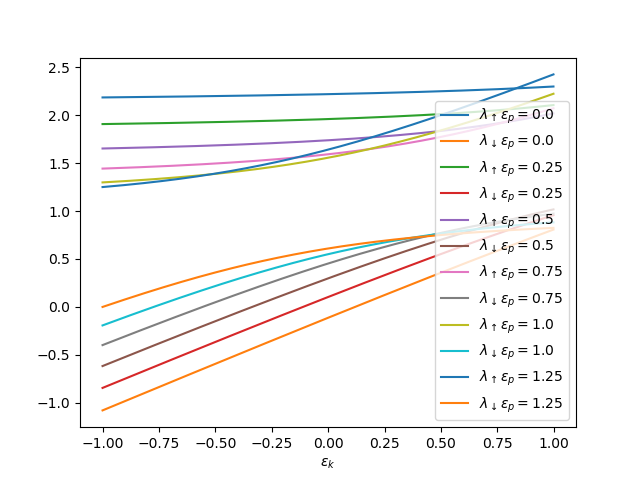
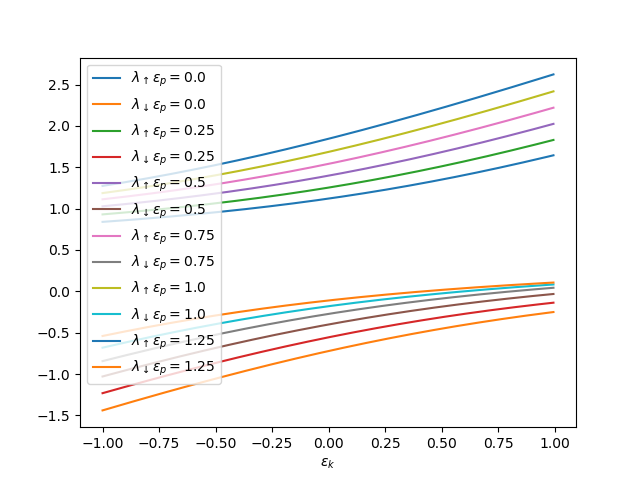
phase diagram

diff --git a/hf/hf_pam.py b/hf/hf_pam.py
@@ -1,29 +1,32 @@
 import numpy as np
 import matplotlib.pyplot as plt
 
-e_p = 0         # energy of p-orbital electron
-n_loops = 100   # number of loops   
-n_d = 0.5       # d-orbital electron number
+e_p = 0.0       # energy of p-orbital electron
+n_p = 0.0       # p-orbital electron number
+U = 0.5         # interaction term
+mu = 0.0        # chemical potential
 mix = 0.5       # ratio of old and new n_d 
 band_up = []    # up-spin energy band
 band_dn = []    # down-spin energy band
 energy = []     # range of e_k values
 
-def solve_model(e_p, n_d):
-    D = 1       # half-bandwidth
-    e_d = 0     # energy of d-orbital electron
-    t_pd = 0.5  # orbital hopping
-    U = 2.0     # interaction term
-    de = 1e-3   # energy differential
-    mu = 0      # chemical potential
-    n_p_up = 0  # p-orbital up-spin electron number
-    n_d_up = 0  # d-orbital up-spin electron number
-    n_p_dn = 0.5# p-orbital down-spin electron number
-    n_d_dn = 0.5# d-orbital down-spin electron number    
+def solve_model(e_p, n_d, mu, U):
+    D = 1.0     # half-bandwidth
+    e_d = 0.0   # energy of d-orbital electron
+    t_pd = 0.9  # orbital hopping    
+    de = 5e-3   # energy differential
+    n_p_up = 0.0# p-orbital up-spin electron number
+    n_d_up = 0.0# d-orbital up-spin electron number
+    n_p_dn = 0.0# p-orbital down-spin electron number
+    n_d_dn = 0.0# d-orbital down-spin electron number    
     global band_up 
     global band_dn 
     global energy
-        
+    
+    band_up = []
+    band_dn = []    
+    energy = [] 
+    
     for e_k in np.arange(-D + 0.001*de, D - 0.001*de, de):
         is_zero_freq = e_k > - de/2 and e_k < de/2  
         # discard 0 energy to avoid division by 0
@@ -35,51 +38,117 @@ def solve_model(e_p, n_d):
             rho = 2 * np.sqrt(D**2 - e_k**2)/np.pi
             # compute eigenvalues
             a = 1
-            b = E_p + E_d
+            b = -(E_p + E_d)
             c = E_p * E_d - t_pd**2        
-            lambda_up = (b + np.sqrt(b**2 - 4*a*c))/(2*a)
-            lambda_dn = (b - np.sqrt(b**2 - 4*a*c))/(2*a)
+            lambda_up = (-b + np.sqrt(b**2 - 4*a*c))/(2*a)
+            lambda_dn = (-b - np.sqrt(b**2 - 4*a*c))/(2*a)
             # compute eigenvectors
-            v_up = [1, (lambda_up - E_d)/t_pd]
-            v_dn = [1, (lambda_dn - E_d)/t_pd]
+            v_up = [(E_d - lambda_up)/(E_p - lambda_up), 
+                    (lambda_up - E_d)/t_pd]
+            v_dn = [(E_d - lambda_dn)/(E_p - lambda_dn), 
+                    (lambda_dn - E_d)/t_pd]
             # normalize eigenvectors            
             v_up /= np.sqrt(v_up[0]**2 + v_up[1]**2)
             v_dn /= np.sqrt(v_dn[0]**2 + v_dn[1]**2)
             # compute electron number
             if lambda_up < 0:
-                n_p_up += v_up[0]**2 * rho * de
-                n_d_up += v_up[1]**2 * rho * de
+                n_p_up += 2 * v_up[0]**2 * rho * de
+                n_d_up += 2 * v_up[1]**2 * rho * de
             if lambda_dn < 0:
-                n_p_dn += v_dn[0]**2 * rho * de
-                n_d_dn += v_dn[1]**2 * rho * de
+                n_p_dn += 2 * v_dn[0]**2 * rho * de
+                n_d_dn += 2 * v_dn[1]**2 * rho * de
             
             band_up.append(lambda_up)
             band_dn.append(lambda_dn)
             energy.append(e_k)
-            
-    return n_d_up + n_d_dn
+    
+    n_p = n_p_up + n_p_dn
+    n_d = n_d_up + n_d_dn
+    return n_p, n_d
 
-fig, ax = plt.subplots()
-ax.set(xlabel = r'$\epsilon_k$')
-
-for e_p in np.arange(0.0, 1.5, 0.25):
-    n_d = 0
-    print("solving for e_p = " + str(e_p))
+# loop until model converges
+def converge(e_p, n_p, mu, U):  
+    n_loops = 100   # number of loops 
+    n_d = 0.0       # d-orbital electron number
+    d_n_d = 1e-3    # n_d differential
     for i in range(n_loops):
         n_d_old = n_d
-        band_up = []
-        band_dn = []
-        energy = []
-        n_d = solve_model(e_p, n_d)
+        n_p, n_d = solve_model(e_p, n_d, mu, U)
         # mix old and new n_d to speed up convergence
         n_d = mix * n_d + (1 - mix) * n_d_old
+        if (abs(n_d_old - n_d) < d_n_d):
+            break
+        
+        
+    return n_p, n_d
+
+# compute band structures for different e_p values
+'''
+print("computing band structures...")
+fig, ax = plt.subplots()
+for e_p in np.arange(0.0, 1.5, 0.25):
+    print("solving for e_p = " + str(e_p))
+    converge(e_p, n_p, mu, U)
         
     plt.plot(energy, band_up, 
              label = r'$\lambda_{\uparrow} \epsilon_p=$' + str(e_p))
     
     plt.plot(energy, band_dn, 
              label = r'$\lambda_{\downarrow} \epsilon_p=$' + str(e_p))
-
-plt.legend()
+ax.legend()
+ax.set(xlabel = r'$\epsilon_k$')
 plt.savefig('bands.png')
+plt.clf()
+'''
+
+# compute n_p, n_d for different mu
+'''
+print("\ncomputing occupation numbers...\n")
+fig, ax = plt.subplots()
+e_p = -1.0
+n_p_mu = []
+n_d_mu = []
+mu_range = np.arange(-4, 5, 0.5)
+for mu in mu_range: 
+    print("solving for mu = " + str(mu))
+    n_p, n_d = converge(e_p, n_p, mu, U)
+    n_p_mu.append(n_p)
+    n_d_mu.append(n_d)
+n_tot = [n_p_mu[i] + n_d_mu[i] for i in range(len(n_p_mu))]
+ax.plot(mu_range, n_p_mu, marker='.', label=r'$n_p$')
+ax.plot(mu_range, n_d_mu, marker='.', label=r'$n_d$')
+ax.plot(mu_range, n_tot, marker='.', label=r'$n_{tot}$')
+ax.legend()
+ax.set(xlabel=r'$\mu$', ylabel='occupation number')
+plt.savefig('occ_num.png')
+plt.clf()
+'''
+
+# plot phase diagram
+'''
+print("\nplotting phase diagram...\n")
+fig, ax = plt.subplots()
+mu_range = np.arange(0, 5, 0.5)
+U_range = np.arange(0, 4, 0.5)
+n_mu_U = []
+for U in U_range:
+    print("solving for U = " + str(U))
+    n_mu = []
+    for mu in mu_range:
+        print("solving for mu = " + str(mu))
+        n_p, n_d = converge(e_p, n_p, mu, U)
+        n_mu.append(n_p + n_d)
+    n_mu_U.append(n_mu)
+n_mu_U.reverse() # order matrix rows from biggest U to smallest
+im_edges = [mu_range[0], mu_range[len(mu_range)-1],
+            U_range[0], U_range[len(U_range)-1]]
+plt.imshow(n_mu_U, interpolation='none', 
+           extent=im_edges, aspect='auto')
+ax.set_xticks(mu_range)
+ax.set_yticks(U_range)
+ax.set(xlabel=r'$\mu$', ylabel=r'$U$')
+clb = plt.colorbar()
+clb.set_label(r'$n_{tot}$')
+plt.savefig('phase_diag.png')
 plt.close()
+'''
